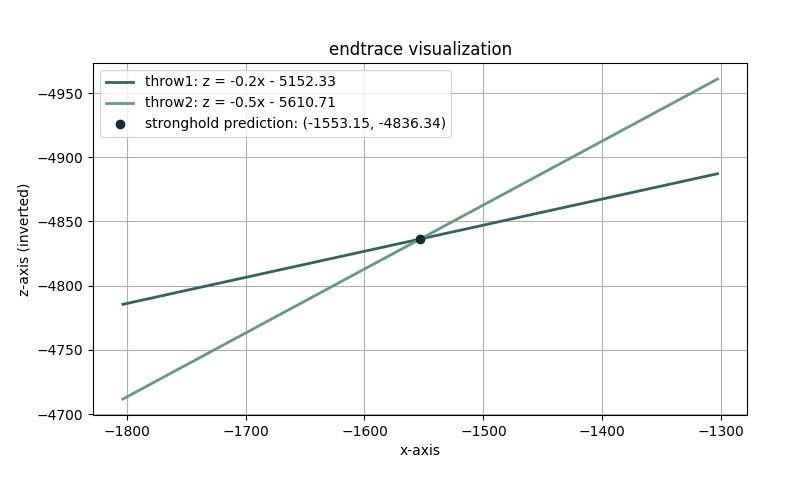
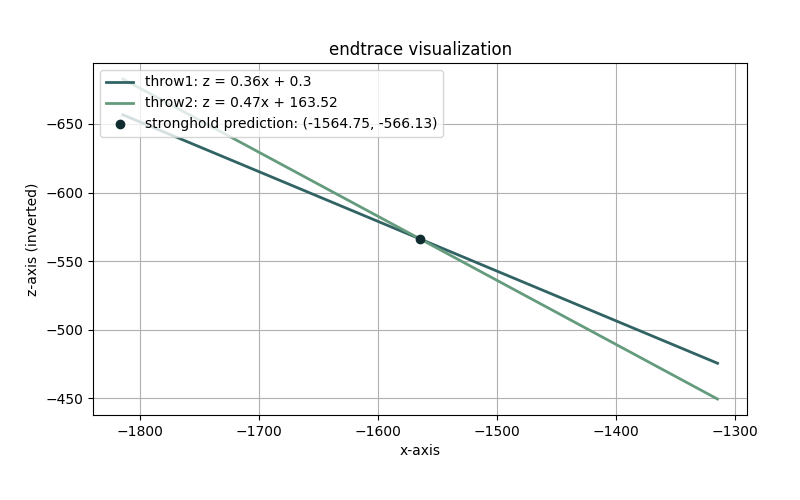
updated predictor, tests, and documentation

diff --git a/endtrace.py b/endtrace.py
@@ -23,6 +23,7 @@ import math
 import matplotlib.pyplot as plt
 import sys
 
+
 def _transform_minecraft_angle_to_cartesian_rads(theta: float) -> float:
     """
     Transforms a Minecraft angle (in degrees) to a Cartesian angle (in
@@ -41,8 +42,24 @@ def _transform_minecraft_angle_to_cartesian_rads(theta: float) -> float:
         theta += sys.float_info.epsilon 
 
     # transform angles to be in radians and the cartesian plane
-    if theta > 0: return math.radians(-theta + 270)
-    else: return math.radians(-theta - 90)
+    # return is negated since z-axis is flipped in minecraft
+    if theta > 0:
+        return -math.radians(-theta + 270)
+    else:
+        return -math.radians(-theta - 90)
+
+
+def _clean_zero(val: float) -> float:
+    """
+    Normalizes -0.0 to 0.0 for cleaner output.
+
+    Args:
+        val (float): A rounded float value.
+    
+    Returns:
+        float: 0.0 if val is -0.0, otherwise val.
+    """
+    return 0.0 if val == 0 else val
 
 
 def predict_stronghold(
@@ -65,6 +82,10 @@ def predict_stronghold(
     Returns:
         tuple[float, float]: The approximated (x, z) coords of the stronghold.
     """
+    # transform minecraft angles to radians in the cartesian plane
+    theta1 = _transform_minecraft_angle_to_cartesian_rads(theta1)
+    theta2 = _transform_minecraft_angle_to_cartesian_rads(theta2)
+
     # get the slopes of each throw
     m1 = math.tan(theta1)
     m2 = math.tan(theta2)
@@ -74,8 +95,8 @@ def predict_stronghold(
     # check images/endtrace-math.pdf for work
     pred_x = (m2*x2 - m1*x1 + z1 - z2)/(m2 - m1)
     pred_z = (m1*m2*(x2 - x1) + m2*z1 - m1*z2)/(m2 - m1)
-    rounded_pred_x = round(pred_x, 2)
-    rounded_pred_z = round(pred_z, 2)
+    rounded_pred_x = _clean_zero(round(pred_x, 2))
+    rounded_pred_z = _clean_zero(round(pred_z, 2))
 
     # print regardless of graphing or not
     print(
@@ -159,10 +180,6 @@ def main():
     except AngleError as angle_error:
         print(f"AngleError: {angle_error}")
         sys.exit(1)
-
-    # transform minecraft angles to radians in the cartesian plane
-    theta1 = _transform_minecraft_angle_to_cartesian_rads(theta1)
-    theta2 = _transform_minecraft_angle_to_cartesian_rads(theta2)
 
     # perform the prediction
     predict_stronghold(x1, z1, theta1, x2, z2, theta2, graph)

diff --git a/tests/test_predictions.py b/tests/test_predictions.py
@@ -44,7 +44,8 @@ class TestPredictions(unittest.TestCase):
         Test conversion of cardinal Minecraft angles to Cartesian radians.
         """
         minecraft_degrees = [180, -90, 0, 90]
-        cartesian_radians = [math.pi/2, 0, 3*math.pi/2, math.pi]
+        # cartesian_radians = [math.pi/2, 0, 3*math.pi/2, math.pi]
+        cartesian_radians = [3*math.pi/2, 0, math.pi/2, math.pi]
         self._assert_angle_conversion(minecraft_degrees, cartesian_radians)
     
     def test_transform_minecraft_angles_to_cartesian_rads_non_cardinals(self):
@@ -52,7 +53,8 @@ class TestPredictions(unittest.TestCase):
         Test conversion of non-cardinal Minecraft angles to Cartesian radians.
         """
         minecraft_degrees = [-135, -45, 45, 135]
-        cartesian_radians = [math.pi/4, 7*math.pi/4, 5*math.pi/4, 3*math.pi/4]
+        # cartesian_radians = [math.pi/4, 7*math.pi/4, 5*math.pi/4, 3*math.pi/4]
+        cartesian_radians = [7*math.pi/4, math.pi/4, 3*math.pi/4, 5*math.pi/4]
         self._assert_angle_conversion(minecraft_degrees, cartesian_radians)
 
     def _get_printed_output(self, func, *args, **kwargs):
@@ -127,14 +129,10 @@ class TestPredictions(unittest.TestCase):
         Test predict_stronghold outputs coordinates at the origin when we
         mathematically expect the intersection to be (0, 0)
         """
-        theta1 = math.radians(135)
-        theta2 = math.radians(45)
-
-        # intersection is (mathematically) the origin
         printed = self._get_printed_output(
             predict_stronghold,
-            10, -10, theta1,
-            -10, -10, theta2
+            10, -10, 45,
+            -10, -10, -45
         )
 
         self.assertIn("x=0.0", printed)

diff --git a/README.md b/README.md
@@ -68,11 +68,11 @@ options:
 
 
 ## Example
-Once you've collected throw data from distinct and decently distant Eye of Ender throws, enter it into the command line as follows:
+Once you've collected throw data from distinct and sufficiently distant Eye of Ender throws, enter it into the command line as follows:
 
 ```
-python endtrace.py -2567.330 -4630 101.5 -1967 -4630 116.5 --graph
-predicted stronghold coords: (x=-1553.15, y=?, z=-4836.34)
+python endtrace.py 0.586 0.512 109.9 -350.193 0.226 115 --graph
+predicted stronghold coords: (x=-1564.75, y=?, z=-566.13)
 ```
 
 The above example produces the following visualization by using the `--graph` flag:
